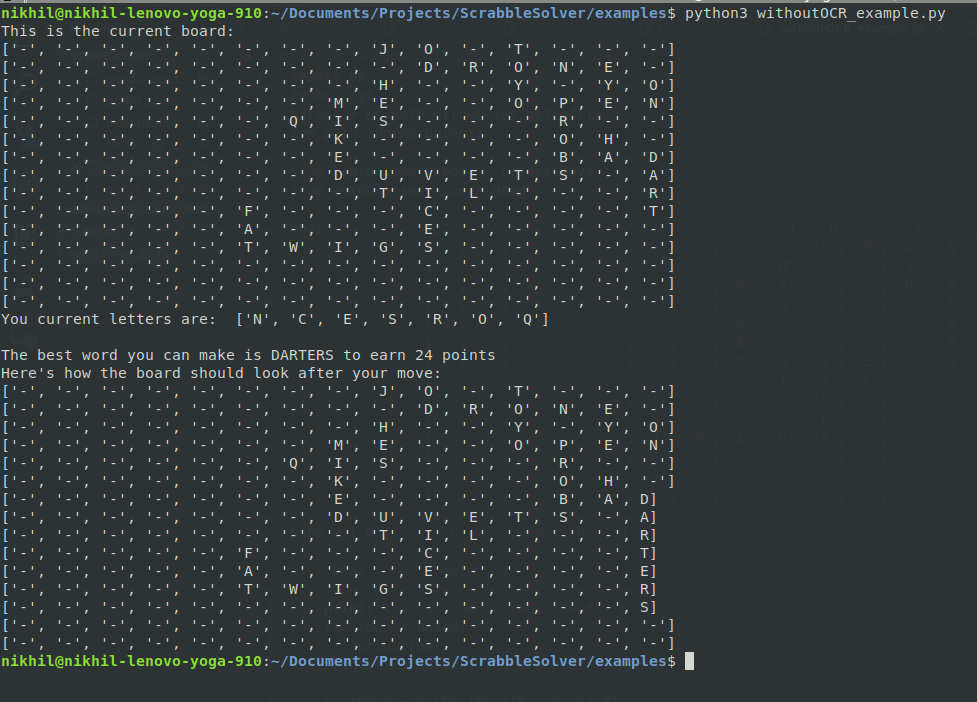
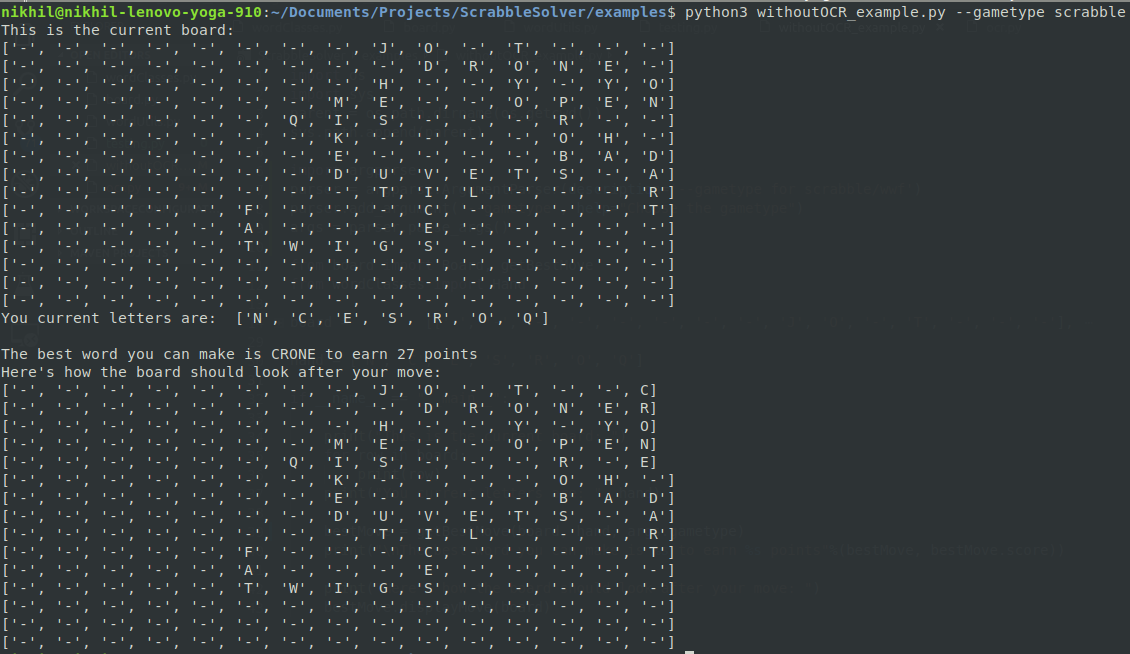
Added console argument for gametype

diff --git a/examples/withoutOCR_example.py b/examples/withoutOCR_example.py
@@ -3,6 +3,11 @@ import sys
 parent = os.path.dirname(os.getcwd())
 sys.path.append(parent)
 
+import argparse
+parser = argparse.ArgumentParser(description='--gametype for scrabble/wwf')
+parser.add_argument('--gametype', help="Choose the gametype")
+args = parser.parse_args()
+
 from board import Board, getBestMove
 from wordClasses import Hand
 
@@ -31,7 +36,7 @@ if __name__ == "__main__":
         print(row)
     print("You current letters are: ", hand)
 
-    bestMove = getBestMove(board, hand)
+    bestMove = getBestMove(board, hand, args.gametype)
     print("\nThe best word you can make is %s to earn %s points"%(bestMove, bestMove.score))
 
     print("Here's how the board should look after your move: ")
